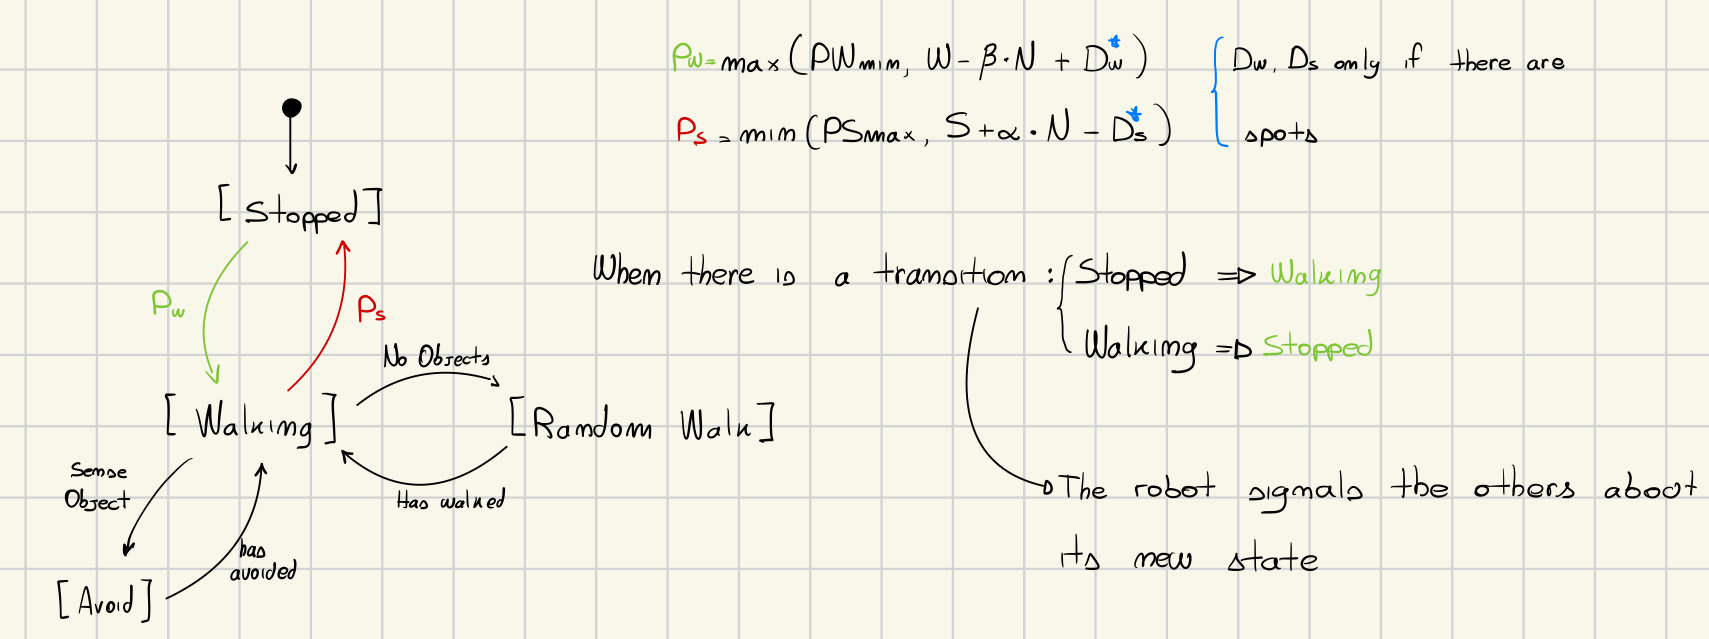
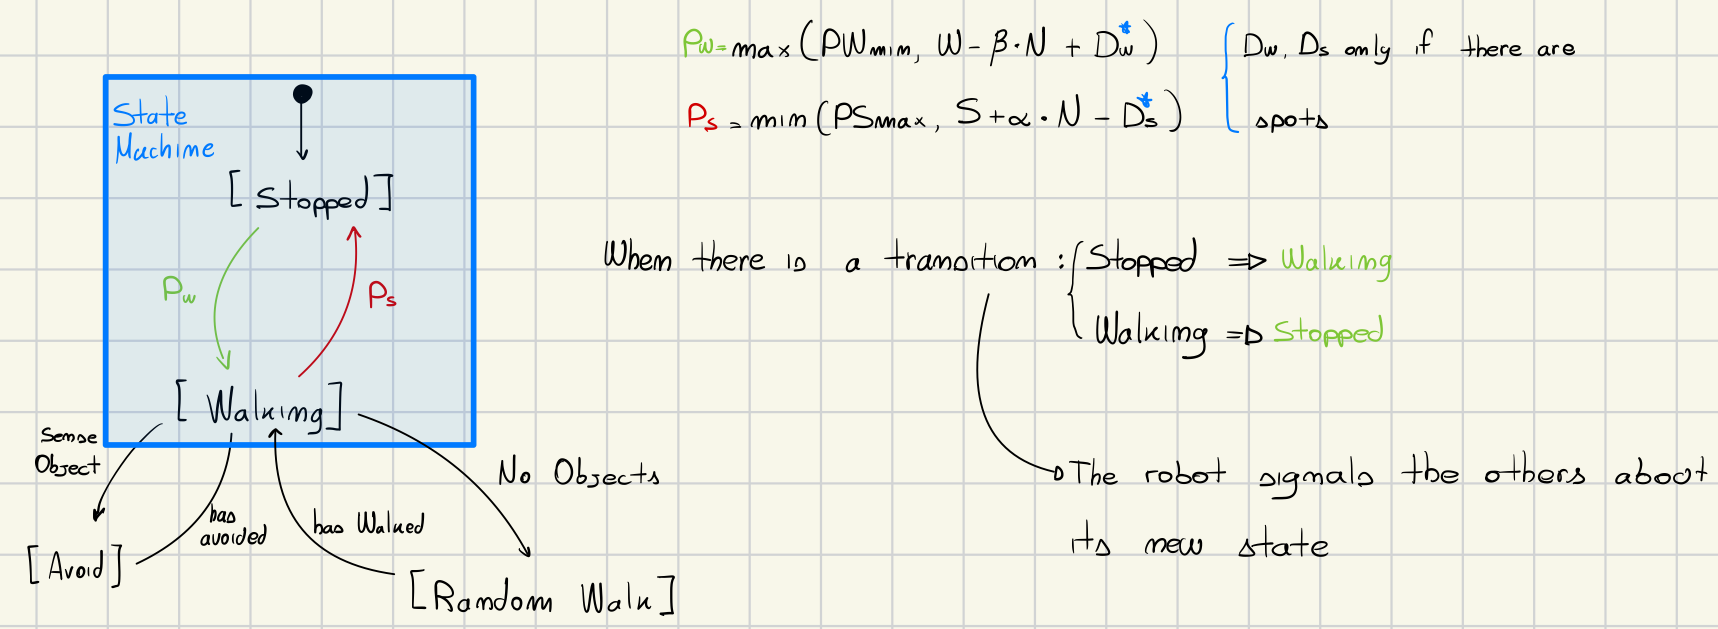
chore: add implementation for ex3. Add new image for the report

Changed region(s): [[0.0, 0.0302, 1.0, 0.9968]]

diff --git a/lab4/swarm_robotics.md b/lab4/swarm_robotics.md
@@ -1,5 +1,5 @@
 # Swarm Robotic
-The goal of this exercise was to develop an *Aggregation Beheaviour*. Where a robot can be in two different states depending on specific conditions. The robot can be stopped and can starting moving by using a specific probability (Pw), and also if the robot is walking it can stops by using another probability (Ps). While the robot is walking it also has to *avoid* all the other robots nearby, and when there are not any other robots around it has to randomly walk in the arena. The probability of the robot to going from the status of *WALKING* to *STOPPED* depends on how many robots are stopped around a specifc arean from the robot, and the probability of the robot for going from *STOPPED* to *WALKING* depends on the number of robots that are currently walking around the current robot.
+The goal of this exercise was to develop an *Aggregation Beheaviour*. Where a robot can be in two different states depending on specific conditions. The robot can be stopped and it can start moving by using a specific probability (Pw), and also if the robot is walking it can stop by using another probability (Ps). While the robot is walking it also has to *avoid* all the other robots nearby, and when there are not any other robots around it has to randomly walk in the arena. The probability of the robot to going from the status of *WALKING* to *STOPPED* depends on how many robots are stopped around a specifc arean from the robot, and the probability of the robot for going from *STOPPED* to *WALKING* depends on the number of robots that are currently walking around the current robot.
 
 ## Design
 This excercise has a focus specifically on the *swarm robotic topic*. And I have divided the entire problem in different specifics. And all this specifics has the main goal of creating clusters of stopped robots. The first thing that I did was the creation of the Robot's State Machine:
@@ -10,7 +10,7 @@ There are two main states:
 1. *Stopped*: this is the state where the robot does not move at all;
 2. *Walking*: in this state the robot walks randomly inside the arena. while it tries to avoid all the other robots.
 
-As can be seen from the image, when the robot is inside the *WALKING* state, it has to always avoid objects if detected, otherwise it randomly walk, it is important to say that every time the robot can fall in the *STOPPED* status. In order to achieve this behaviour, inside the step method the robot get the probability for possibly change the state, if the robot can change then it will the transtion into the newer state.
+As can be seen from the image, when the robot is inside the *WALKING* state, it has to always avoid objects if detected, otherwise it randomly walk, it is important to say that every time the robot can fall in the *STOPPED* status. In order to achieve this behaviour, inside the step method the robot gets the probability for changing its state, if the robot can change then it will transition into the newer state.
 
 ```lua
 function step()
@@ -66,7 +66,7 @@ When a single robot has to run the probability operation it needs to count the n
 
 
 ### Design Probability
-The probability is *driven* by the number of all the other robots in a specific state, in order to do that every time the robot *checks* for the probability it will also *count* the states of all its *neighbours* (in a given range). So in this way the robot will be able to rescale its *probability*.  Both probabilities depends on the number of the other robots in a given state, for example every time the robot tries to *stop*, it will count the number of robots around it that are currently *stop*, the higher the number and the higher the probability for the robot to stop, the same goes for the *walking* transition. For what concernes the *second exercise* the probability is also guided by the *ground color*, if the ground color is black then the robot will try more often to stop.
+The probability is *driven* by the number of all the other robots in a specific state, in order to do that every time the robot *checks* for the probability it will also *count* the states of all its *neighbours* (in a given range). So in this way the robot will be able to rescale its *probability*.  Both probabilities depends on the number of the other robots in a given state, for example every time the robot tries to *stop*, it will count the number of robots around it that are currently *stopped*, the higher the number and the higher the probability for the robot to stop, the same goes for the *walking* transition. For what concernes the *second exercise* the probability is also guided by the *ground color*, if the ground color is black then the robot will try more often to stop.
 
 Every method in this file follows the same structure:
 1. *count phase*: count the number of neighbours in a specific state;
@@ -91,3 +91,59 @@ function probability.apply(prob)
 	return t <= prob
 end
 ```
+
+### Possible Design for Excercise 3
+The goal of the third exercise is to cluster all the robots into one single spot. My general idea is to use along with the already use channel 1, another channel, we call it 2. This channel is used to store the total number of stopped robots detected from each robot. In this way each robot can ask and get the number of total robots stopped that are detected from all the neighbouring robots. Then if one of values that are get from this channel is greather than the one calculated from the current robot, this will trigger the random walking of the robot. The goal then is to cluster all the robots in one single dot, in order to do this, when a robot starts walking it will use a greedy approach in which it will always chose the direction that maximise the number robots detected in the second channel, so the angle it will always be adjusted using the number of total robots detected from the second channel.
+
+#### Greedy Proof
+
+##### 1. Problem Formalization
+
+- **Environment**: A bounded space where `n` robots can move.
+- **Objective**: All robots should eventually cluster into a single location (or a small area within ε-distance).
+- **Sensing/Communication**:
+  - **Channel 1**: status of the nearby robot (*WALKING* or *STOPPED*).
+  - **Channel 2**: Each robot broadcasts the number of stopped robots it can perceive. This allows other robots to estimate where clusters are forming.
+- **Behavior**:
+  - A robot begins **random walking** if it detects that some neighbor sees more stopped robots than it does.
+  - It then chooses the direction that **maximizes** the number of stopped robots (as indicated by values from Channel 2).
+  - This is a **greedy strategy**: always move in the direction of greatest local density.
+
+##### 2. Greedy Algorithm Intuition
+
+- At each step, a robot chooses the **locally optimal direction** — the one with the highest reported number of stopped robots.
+- It does not compute a global plan but acts **myopically**, based on immediate perceived gain.
+- This behavior mirrors classic greedy algorithms: *always make the best immediate move*.
+
+##### 3. Proof That Greedy Works
+
+We aim to show that this greedy movement leads all robots to converge to a single cluster.
+
+###### Step 1: Define a Potential Function
+
+Let:
+$$\Phi = \sum_{i=1}^n \text{distance}(r_i, c)$$
+
+Where:
+- $r_i$ is the position of robot \( i \),
+- \( c \) is the center of the current cluster (e.g., center of mass or mode of stopped robots).
+
+###### Step 2: Show Monotonic Decrease
+
+- When a robot moves greedily toward a region of higher robot density (based on Channel 2), it moves closer to the cluster center.
+- Therefore, its distance to \( c \) decreases.
+- As a result, the potential function \( \Phi \) strictly **decreases**.
+
+###### Step 3: Show Convergence
+
+- The potential function $\Phi$ is **bounded below by 0** (all robots in the same position).
+- Since $\Phi$ decreases with each greedy movement, and is bounded, it must **converge**.
+- Once no robot sees a higher value in Channel 2 elsewhere, movement stops — this is a **stable global cluster**.
+
+###### Step 4: No Local Minima Trap
+
+- Channel 2 creates a "density field" that acts like a **pheromone gradient**.
+- Greedy robots always move toward denser regions — they can't get stuck in false local optima.
+- As more robots stop in a location, the gradient becomes steeper, reinforcing the correct clustering behavior.
+
+Thus, greedy behavior leads to all robots clustering at a single location.
